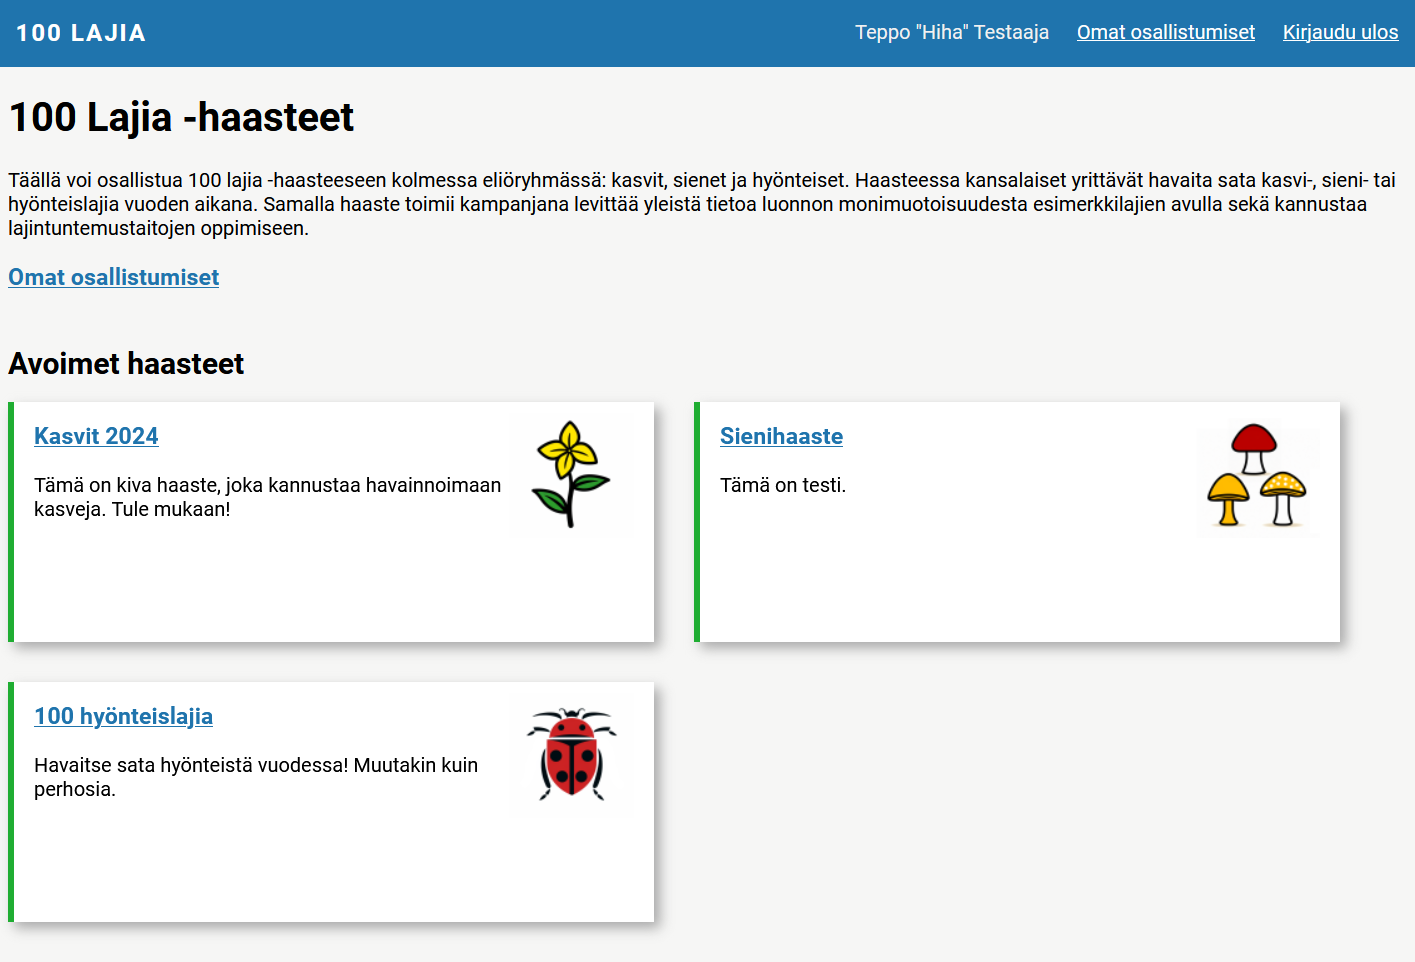
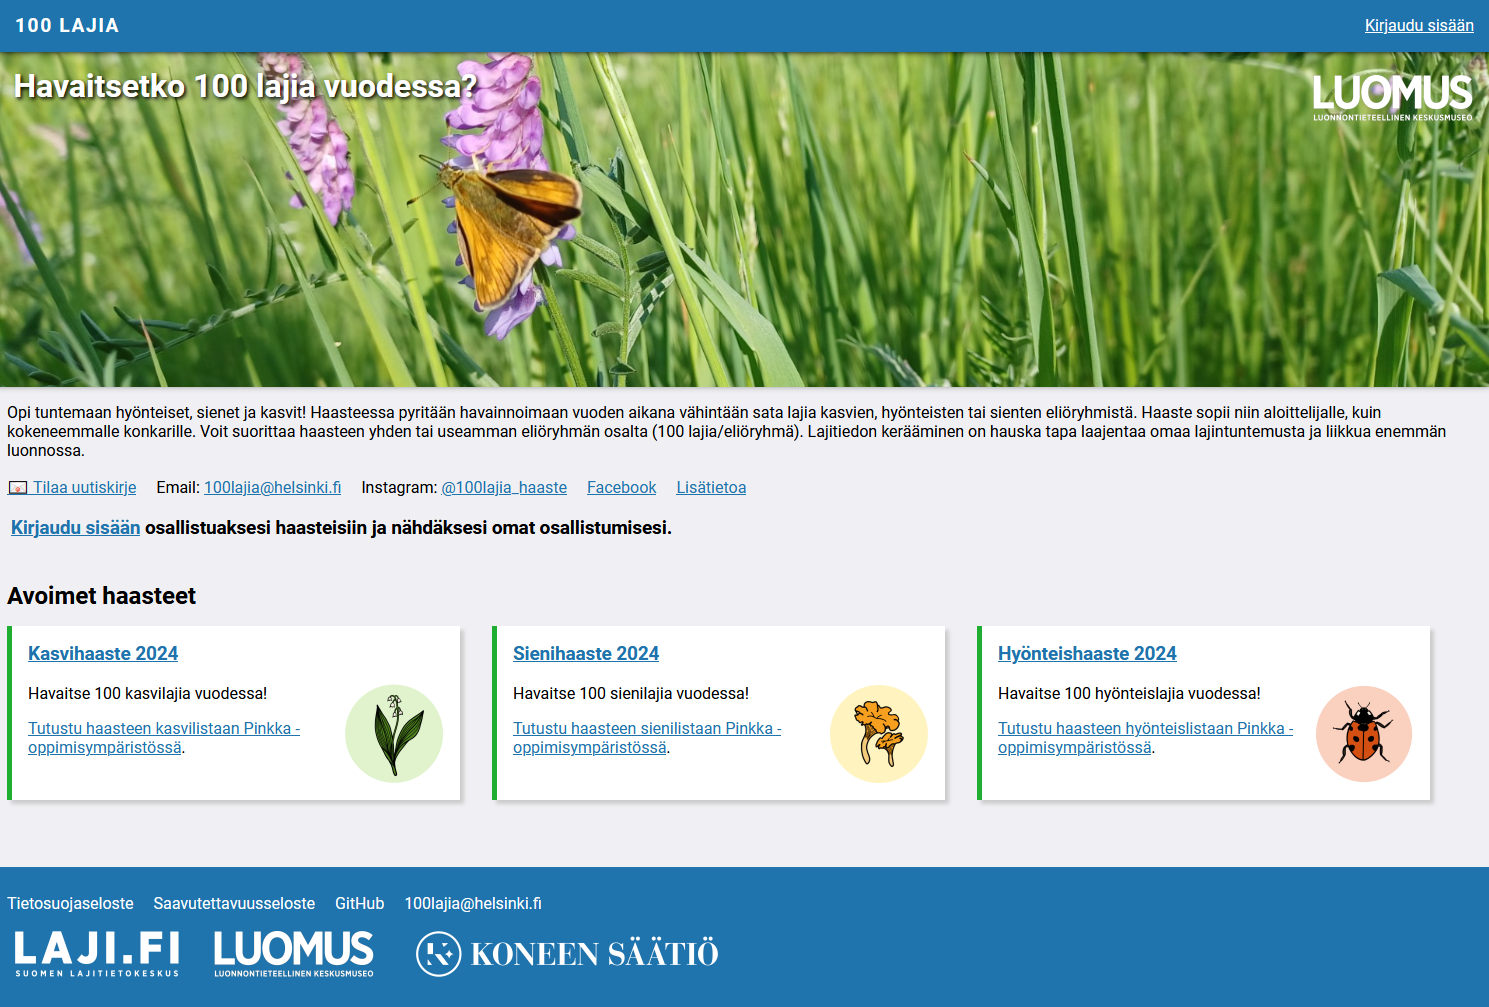
Update introduction ans screencapture

diff --git a/README.md b/README.md
@@ -1,8 +1,12 @@
-# 100 Species Challenge Web Service
+# 100 Species Challenge Web App
 
-A web app designed for organizing and participating in wildlife observation challenges, specifically targeting the identification of 100 species. In these challenges, participants aim to observe a hundred different species of plants, fungi, or insects over the course of a year.
+The 100 Species Challenge web app is designed to facilitate wildlife observation challenges, specifically focused on observing 100 species. These challenges, open to the general public, encourage participants to observe and document 100 different species of plants, fungi, or insects over the course of a year.
 
-Backend application built with Flask. Database on MariaDB. Depends on FinBIF Laji-auth authentication service (Laji.fi). Funded by [Kone Foundation, 2023](https://koneensaatio.fi/en/grants-and-residencies/sata-lajia-haaste-2/).
+The app allows administrators to create and manage multiple challenges, and users can participate in one or more challenges simultaneously. Participants can enter their name or nickname, location, and observed species with dates. The app tracks progress, showing who has completed the challenge, along with an aggregated list of all observed species. Users can also compare their personal observations against the total species recorded in each challenge.
+
+The backend is built using Flask, with MariaDB as the database, and is designed to run on the Rahti 2 OpenShift environment provided by CSC. User authentication is handled through the FinBIF Laji-auth service (Laji.fi).
+
+The 100 Species Challenge (100 lajia -haaste) project is funded by [Kone Foundation, 2023](https://koneensaatio.fi/en/grants-and-residencies/sata-lajia-haaste-2/). The live production version is available at https://100lajia.luomus.fi
 
 ![alt text](./app/static/screencapture.png)
 
@@ -30,7 +34,16 @@ phpMyAdmin admin UI will be at http://localhost:8080
 - Login to playwright container with `docker exec -ti species-challenge-playwright-1 bash`
 - Run tests with `python -m pytest -v -s`. The `-s` option enables print outputs.
 
-## OpenShift setup
+## Deploying to Rahti 2
+
+- Run e2e-tests
+- Merge changes to main, if deploying production version
+- Check that build is successful at https://github.com/luomus/species-challenge/actions
+- Select deployment from https://console-openshift-console.apps.2.rahti.csc.fi/k8s/ns/species-challenge/deployments
+- Actions > Restart rollout
+- Check that everything works
+
+## OpenShift setup notes
 
 Note that in order to create MariaDB database on Rahti, PHPMyAdmin data dump does not work. You need to create the dump on the command line:
 
